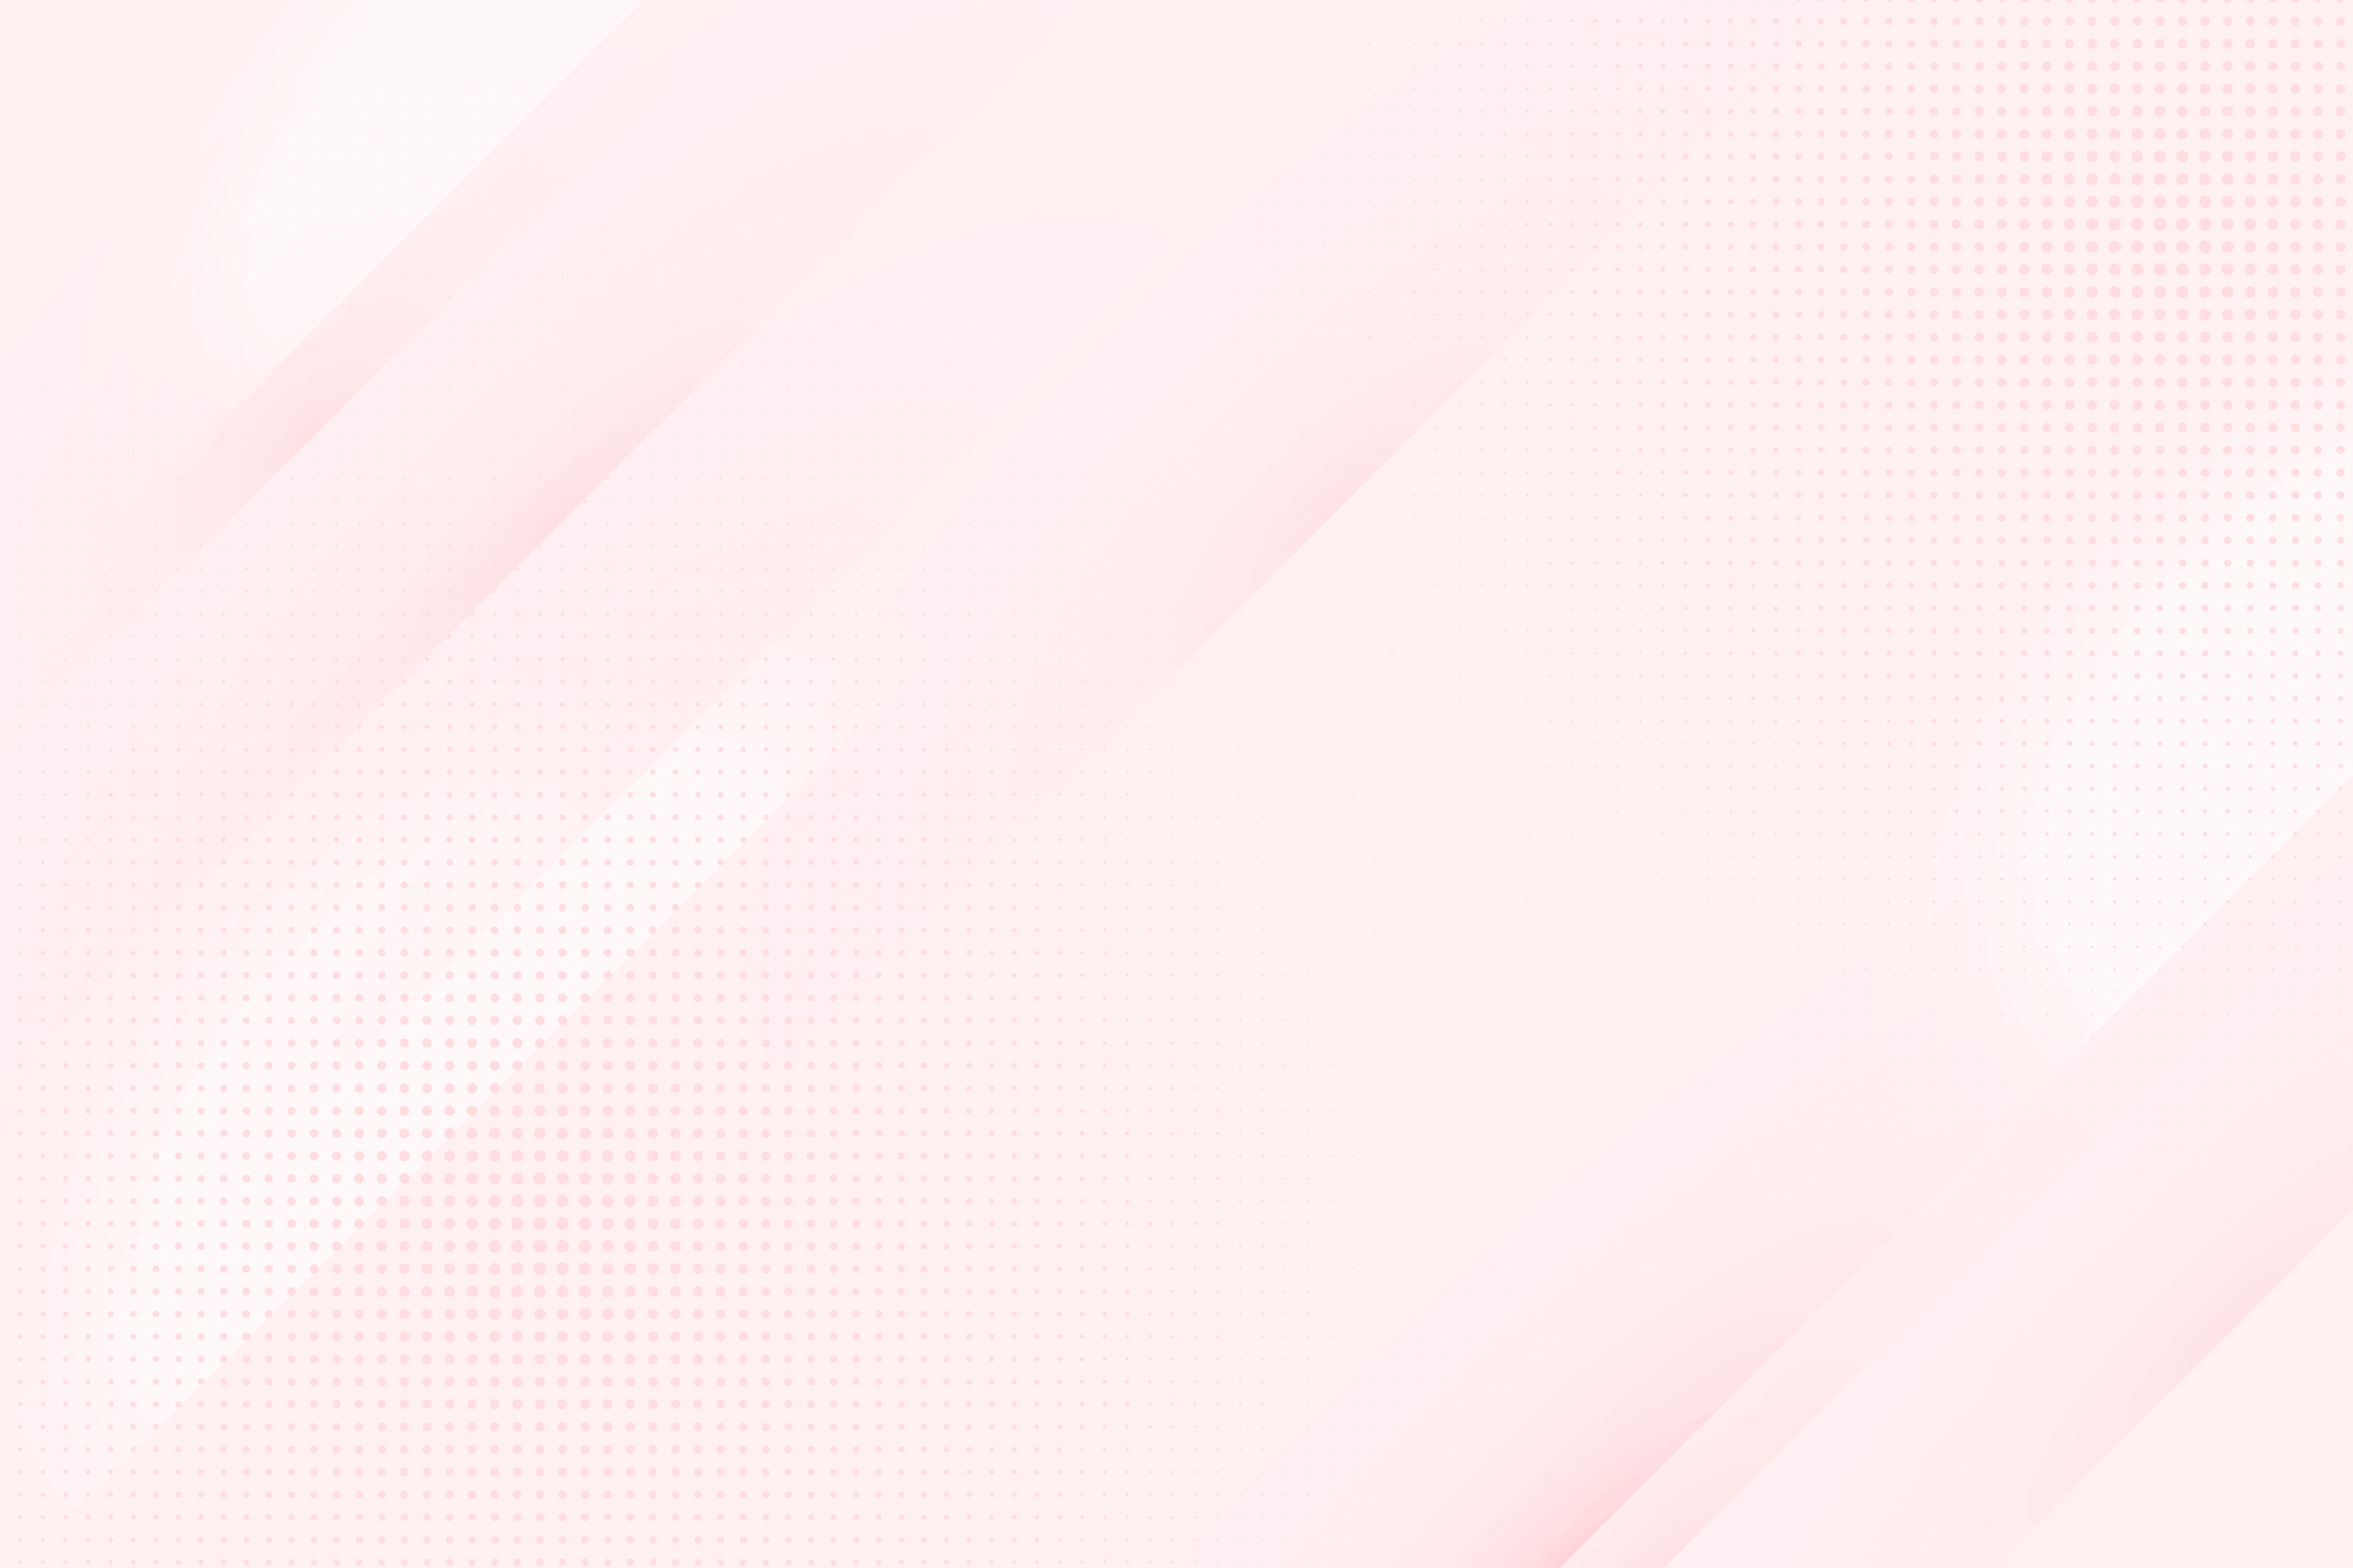
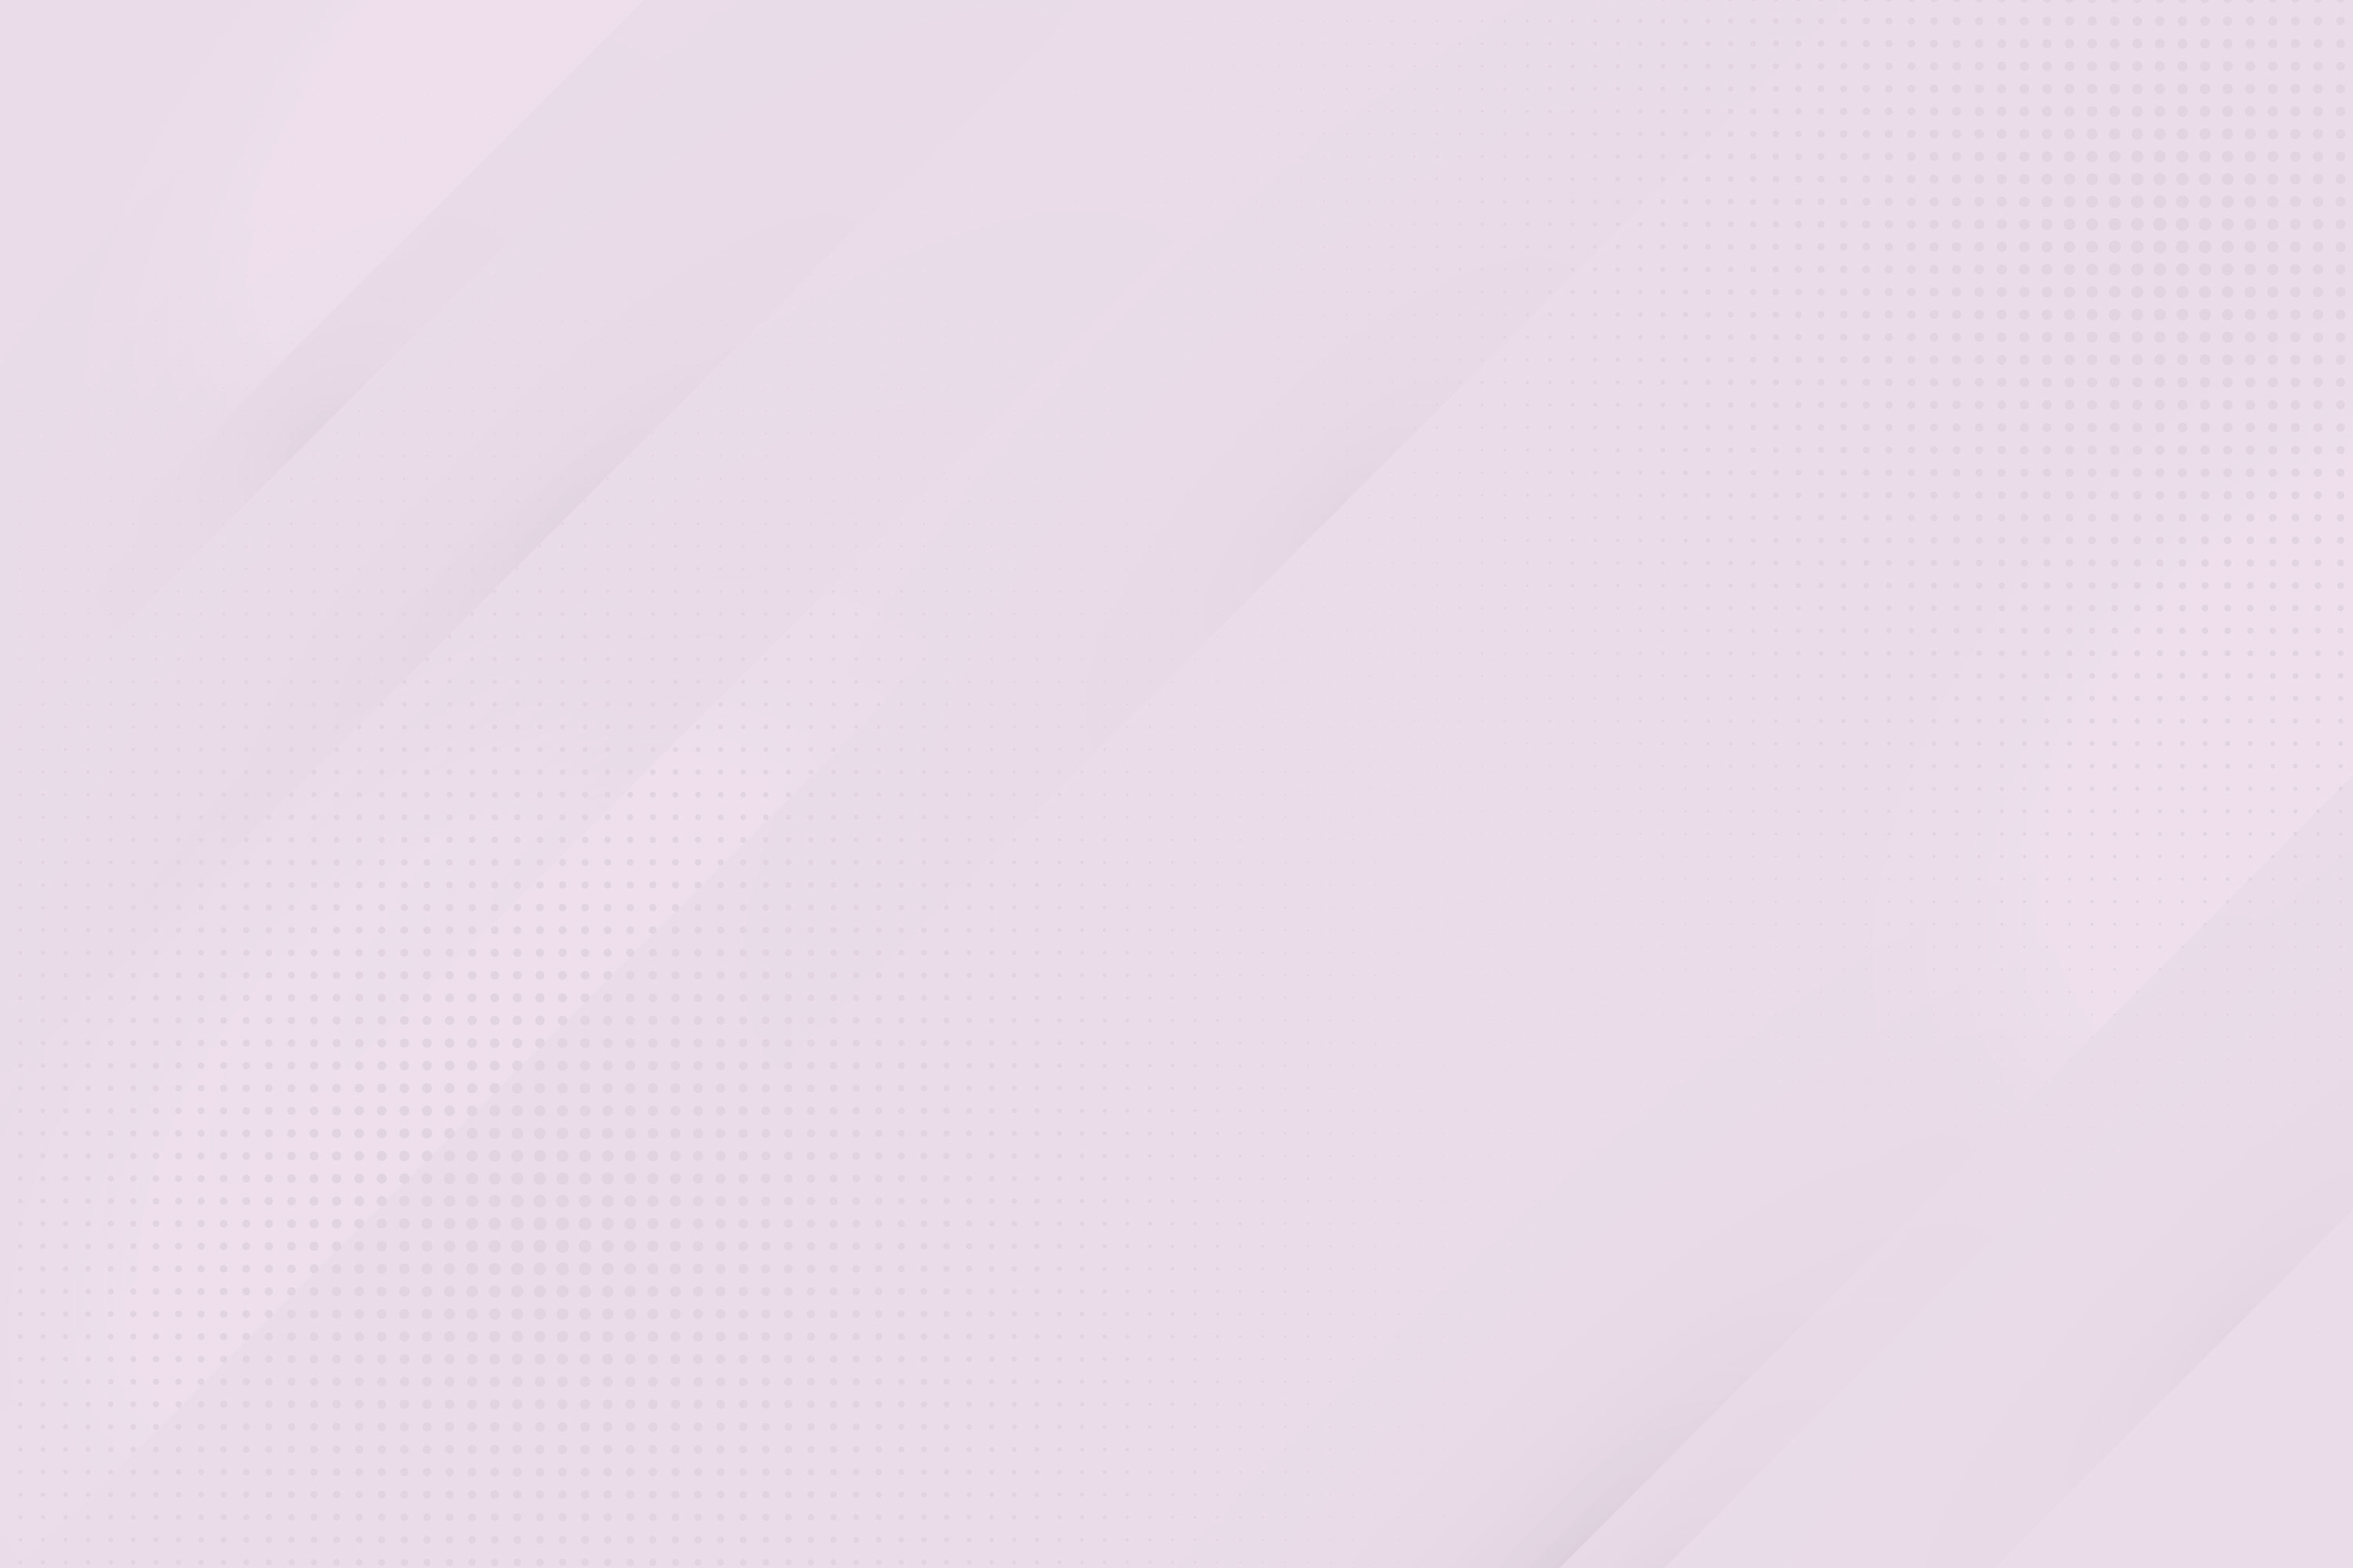
Thème (en cours de fabrication)

diff --git a/projMiSess/css/cegepCSS.css b/projMiSess/css/cegepCSS.css
@@ -1,3 +1,4 @@
+/* Bleu foncé */
 .bleuCegep{
     color : #092D74;
 }
@@ -10,6 +11,7 @@
     border: 2px solid #092D74;
 }
 
+/* Rouge foncé */
 .rougeCegep{
     color : #CF152D;
 }
@@ -18,10 +20,16 @@
     border: 2px solid #CF152D;
 }
 
+.bg-rougeCegep{
+    background-color: #CF152D;
+}
+
+/* Rouge orangé */
 .rougeOrangeCegep{
     color : #EF3832;
 }
 
+/* Lilas */
 .lilasCegep{
     color : #DFCCE4;
 }
@@ -33,10 +41,12 @@
     border: 2px solid #DFCCE4;
 }
 
+/* Century Gothic */
 .fontCegep{
     font-family: century gothic;
 }
 
+/* Image en background */
 .background1{
     background-image: url("../img/background.png");
     background-color: #DFCCE4;

diff --git a/projMiSess/admin.php b/projMiSess/admin.php
@@ -82,22 +82,22 @@
         }
         else if ($_SESSION['style'] == 1){
             $_SESSION['style'] == 1;
-            $CardHeader = "bgLilasCegep border-rouge-cegep";
-            $CardBody = "bg-bleuCegep border-bleuCegep border-top-0 border-bottom-0";
-            $CardFooter = "bgLilasCegep border-rouge-cegep";
-            $Table = "fontCegep lilasCegep";
-            $TableBorder = "text-center border-bottom border-light";
-            $Bouton = "bg-bleuCegep border-rouge-cegep rounded";
-            $TextBouton = "fontCegep lilasCegep fw-bold fs-4";
-            $BtnA = "btn bg-bleuCegep border-rouge-cegep";
-            $TextBtnA = "fontCegep fw-bold lilasCegep";
-            $TextCardHeader = "bleuCegep fw-bold text-center fontCegep";
-            $TextCardBody = "lilasCegep fw-bold fontCegep";
-            $TextErreur = "rougeCegep fw-bold fontCegep";
-            $Label = "fontCegep lilasCegep fw-bold fs-6";
-            $borderInput = "rounded text-center border-lilas-cegep";
-            $borderImg = "rounded border-lilas-cegep";
-            $BarreAdmin = "bgLilasCegep";
+            $CardHeader = "bg-rougeCegep border-bleuCegep";
+            $CardBody = "bgLilasCegep border-bleuCegep border-top-0 border-bottom-0";
+            $CardFooter = "bg-rougeCegep border-bleuCegep";
+            $Table = "fontCegep bleuCegep";
+            $TableBorder = "text-center border-bottom border-danger";
+            $Bouton = "bgLilasCegep border-bleuCegep rounded";
+            $TextBouton = "fontCegep bleuCegep fw-bold fs-4";
+            $BtnA = "btn bgLilasCegep border-bleuCegep";
+            $TextBtnA = "fontCegep fw-bold bleuCegep";
+            $TextCardHeader = "lilasCegep fw-bold text-center fontCegep";
+            $TextCardBody = "rougeCegep fw-bold fontCegep";
+            $TextErreur = "rougeOrangeCegep fw-bold fontCegep";
+            $Label = "fontCegep rougeCegep fw-bold fs-6";
+            $borderInput = "rounded text-center border-bleuCegep";
+            $borderImg = "rounded border-rouge-cegep";
+            $BarreAdmin = "bg-rougeCegep";
             $Background = "background2";
         } 
 
@@ -179,22 +179,22 @@
                 }
                 else if ($style == 1){
                     $_SESSION['style'] = 1;
-                    $CardHeader = "bgLilasCegep border-rouge-cegep";
-                    $CardBody = "bg-bleuCegep border-bleuCegep border-top-0 border-bottom-0";
-                    $CardFooter = "bgLilasCegep border-rouge-cegep";
-                    $Table = "fontCegep lilasCegep";
-                    $TableBorder = "text-center border-bottom border-light";
-                    $Bouton = "bg-bleuCegep border-rouge-cegep rounded";
-                    $TextBouton = "fontCegep lilasCegep fw-bold fs-4";
-                    $BtnA = "btn bg-bleuCegep border-rouge-cegep";
-                    $TextBtnA = "fontCegep fw-bold lilasCegep";
-                    $TextCardHeader = "bleuCegep fw-bold text-center fontCegep";
-                    $TextCardBody = "lilasCegep fw-bold fontCegep";
-                    $TextErreur = "rougeCegep fw-bold fontCegep";
-                    $Label = "fontCegep lilasCegep fw-bold fs-6";
-                    $borderInput = "rounded text-center border-lilas-cegep";
-                    $borderImg = "rounded border-lilas-cegep";
-                    $BarreAdmin = "bgLilasCegep";
+                    $CardHeader = "bg-rougeCegep border-bleuCegep";
+                    $CardBody = "bgLilasCegep border-bleuCegep border-top-0 border-bottom-0";
+                    $CardFooter = "bg-rougeCegep border-bleuCegep";
+                    $Table = "fontCegep bleuCegep";
+                    $TableBorder = "text-center border-bottom border-danger";
+                    $Bouton = "bgLilasCegep border-bleuCegep rounded";
+                    $TextBouton = "fontCegep bleuCegep fw-bold fs-4";
+                    $BtnA = "btn bgLilasCegep border-bleuCegep";
+                    $TextBtnA = "fontCegep fw-bold bleuCegep";
+                    $TextCardHeader = "lilasCegep fw-bold text-center fontCegep";
+                    $TextCardBody = "rougeCegep fw-bold fontCegep";
+                    $TextErreur = "rougeOrangeCegep fw-bold fontCegep";
+                    $Label = "fontCegep rougeCegep fw-bold fs-6";
+                    $borderInput = "rounded text-center border-bleuCegep";
+                    $borderImg = "rounded border-rouge-cegep";
+                    $BarreAdmin = "bg-rougeCegep";
                     $Background = "background2";
                 }
             }
@@ -224,22 +224,22 @@
                 }
                 else if ($_SESSION['style'] == 1){
                     $_SESSION['style'] = 1;
-                    $CardHeader = "bgLilasCegep border-rouge-cegep";
-                    $CardBody = "bg-bleuCegep border-bleuCegep border-top-0 border-bottom-0";
-                    $CardFooter = "bgLilasCegep border-rouge-cegep";
-                    $Table = "fontCegep lilasCegep";
-                    $TableBorder = "text-center border-bottom border-light";
-                    $Bouton = "bg-bleuCegep border-rouge-cegep rounded";
-                    $TextBouton = "fontCegep lilasCegep fw-bold fs-4";
-                    $BtnA = "btn bg-bleuCegep border-rouge-cegep";
-                    $TextBtnA = "fontCegep fw-bold lilasCegep";
-                    $TextCardHeader = "bleuCegep fw-bold text-center fontCegep";
-                    $TextCardBody = "lilasCegep fw-bold fontCegep";
-                    $TextErreur = "rougeCegep fw-bold fontCegep";
-                    $Label = "fontCegep lilasCegep fw-bold fs-6";
-                    $borderInput = "rounded text-center border-lilas-cegep";
-                    $borderImg = "rounded border-lilas-cegep";
-                    $BarreAdmin = "bgLilasCegep";
+                    $CardHeader = "bg-rougeCegep border-bleuCegep";
+                    $CardBody = "bgLilasCegep border-bleuCegep border-top-0 border-bottom-0";
+                    $CardFooter = "bg-rougeCegep border-bleuCegep";
+                    $Table = "fontCegep bleuCegep";
+                    $TableBorder = "text-center border-bottom border-danger";
+                    $Bouton = "bgLilasCegep border-bleuCegep rounded";
+                    $TextBouton = "fontCegep bleuCegep fw-bold fs-4";
+                    $BtnA = "btn bgLilasCegep border-bleuCegep";
+                    $TextBtnA = "fontCegep fw-bold bleuCegep";
+                    $TextCardHeader = "lilasCegep fw-bold text-center fontCegep";
+                    $TextCardBody = "rougeCegep fw-bold fontCegep";
+                    $TextErreur = "rougeOrangeCegep fw-bold fontCegep";
+                    $Label = "fontCegep rougeCegep fw-bold fs-6";
+                    $borderInput = "rounded text-center border-bleuCegep";
+                    $borderImg = "rounded border-rouge-cegep";
+                    $BarreAdmin = "bg-rougeCegep";
                     $Background = "background2";
                 }
             }
@@ -1429,7 +1429,7 @@
                             <div class="col-6 d-flex justify-content-center align-items-center">
                                 <a href="admin.php?style=0" class="w-75 m-0 p-0 d-flex justify-content-center align-items-center <?php echo $BtnA; ?>">
                                     <img src="icones/theme.png" alt="Theme bleu">                       
-                                    <span class="fs-4 <?php echo $TextBtnA; ?>">Thème bleu</span>
+                                    <span class="fs-4 <?php echo $TextBtnA; ?>">Thème Cégep</span>
                                 </a>
                             </div>  
 
@@ -1437,7 +1437,7 @@
                             <div class="col-6 d-flex justify-content-center align-items-center">
                                 <a href="admin.php?style=1" class="w-75 m-0 p-0 d-flex justify-content-center align-items-center <?php echo $BtnA; ?>">
                                     <img src="icones/theme.png" alt="Theme lilas">                       
-                                    <span class="fs-4 <?php echo $TextBtnA; ?>">Thème lilas</span>
+                                    <span class="fs-4 <?php echo $TextBtnA; ?>">Thème Diablos</span>
                                 </a>
                             </div>  
 
